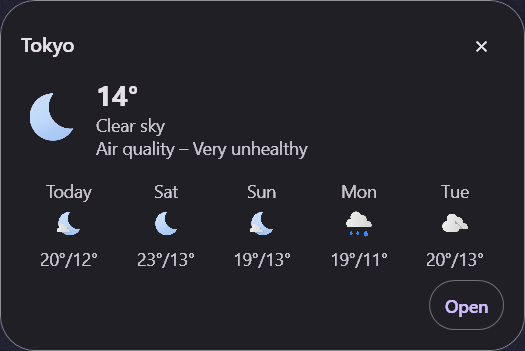
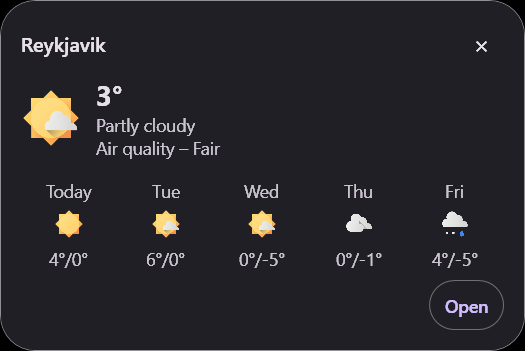
Version 0.3.0: nowcast and footer cards, smoother scrolling and touchpad navigation, Open-Meteo weather models
Adds the precipitation card for the coming hour, the footer with the data sources, Open in another app, Open-Meteo weather models per location, pull to refresh with the mouse, a refresh button and F5, two-finger back and forward, a touchpad scroll speed and forecast column descriptions on hover.

Forecast and detail choices are connected buttons, forecast charts take the weather's colors, detail screens follow the location's light or dark colors, scrolling glides and follows the touchpad, animations follow Windows' animation effects, and switching locations does less work.

Fixes the Nighttime help icon, the header's long lines, screen reader temperatures and detail chart columns cut at their edges. The README shows new screenshots and animations.

diff --git a/README.md b/README.md
@@ -9,7 +9,7 @@
 [![.NET 10](https://img.shields.io/badge/.NET-10-512BD4?logo=dotnet&logoColor=white)](https://dotnet.microsoft.com/)
 [![WPF](https://img.shields.io/badge/UI-WPF-512BD4)](https://learn.microsoft.com/dotnet/desktop/wpf/)
 [![Licence](https://img.shields.io/github/license/Nouni2/Libreccio-Weather)](LICENCE.md)
-[![Release v0.2.2-alpha1](https://img.shields.io/badge/release-v0.2.2--alpha1-red)](https://github.com/Nouni2/Libreccio-Weather/releases/tag/v0.2.2-alpha1)
+[![Release v0.3.0](https://img.shields.io/badge/release-v0.3.0-red)](https://github.com/Nouni2/Libreccio-Weather/releases/tag/v0.3.0)
 
 #### Libreccio Weather is an unofficial Windows port of [Breezy Weather](https://github.com/breezy-weather/breezy-weather), free and open source.
 
@@ -17,19 +17,39 @@
 
 ## Download
 
-Download `0.2.2-alpha1` from its [GitHub release](https://github.com/Nouni2/Libreccio-Weather/releases/tag/v0.2.2-alpha1).
+Download `0.3.0` from its [GitHub release](https://github.com/Nouni2/Libreccio-Weather/releases/tag/v0.3.0).
 
 Libreccio Weather is developed and tested on Windows 11. Solar calculations require an x64 process.
 
 ## Screenshots
 
 <p align="center">
-  <img src="assets/images/main.png" alt="Libreccio Weather main window" width="49%" align="top">
-  <img src="assets/images/second.png" alt="Hourly forecast and weather cards" width="49%" align="top">
+  <img src="assets/images/main.gif" alt="The main screen refreshing, with its cards coming in over the animated weather" width="90%">
 </p>
+
 <p align="center">
-  <img src="assets/images/tray.png" alt="Mistray forecast popup" width="65%">
+  <img src="assets/images/second.png" alt="The hourly forecast and the current condition cards" width="49%">
+  <img src="assets/images/details.png" alt="The Sun and Moon detail page with its altitude chart" width="49%">
 </p>
+
+<details>
+<summary><b>More screenshots and animations</b></summary>
+
+<br>
+
+| Scrolling | Opening a card | Location pane |
+|:---:|:---:|:---:|
+| <img src="assets/images/scroll.gif" alt="The main screen scrolling down through the forecasts and condition cards"> | <img src="assets/images/details.gif" alt="A sun card opening the Sun and Moon detail page"> | <img src="assets/images/pane.gif" alt="The location pane closing and opening beside the main screen"> |
+
+| Tokyo | Cape Town | Phoenix |
+|:---:|:---:|:---:|
+| <img src="assets/images/tokyo.png" alt="The main screen for Tokyo"> | <img src="assets/images/cape-town.png" alt="The main screen for Cape Town"> | <img src="assets/images/phoenix.png" alt="The main screen for Phoenix"> |
+
+| Locations | Settings | Mistray |
+|:---:|:---:|:---:|
+| <img src="assets/images/locations.png" alt="The list of saved locations"> | <img src="assets/images/settings.png" alt="The settings home"> | <img src="assets/images/tray.png" alt="Mistray's daily forecast popup above the tray icon"> |
+
+</details>
 
 ## Features
 
@@ -56,9 +76,9 @@ The main window uses the selected location's meteorological season for its icon,
 |:---:|:---:|:---:|:---:|:---:|
 | <img src="assets/icons/icon.svg" alt="Non-seasonal icon" width="64"> | <img src="assets/icons/spring.svg" alt="Spring icon" width="64"> | <img src="assets/icons/summer.svg" alt="Summer icon" width="64"> | <img src="assets/icons/autumn.svg" alt="Autumn icon" width="64"> | <img src="assets/icons/winter.svg" alt="Winter icon" width="64"> |
 
-## Alpha scope
+## Scope
 
-In `0.2.2-alpha1`, you get Open-Meteo forecasts with light and dark themes. I haven't ported automatic location detection, weather providers other than Open-Meteo, Windows weather notifications or autostart. See the [roadmap](ROADMAP.md) for the remaining features.
+In `0.3.0`, you get Open-Meteo forecasts with light and dark themes. I haven't ported automatic location detection, weather providers other than Open-Meteo, Windows weather notifications or autostart. See the [roadmap](ROADMAP.md) for the remaining features.
 
 The bundled solar DLL requires x64; you cannot use it in an ARM64 process.
 

diff --git a/CHANGELOG.md b/CHANGELOG.md
@@ -1,22 +1,48 @@
 # Changelog
 
-## [Unreleased]
+## [0.3.0] - 2026-11-09
 
 ### Added
 
-- Pull to refresh on the main screen: drag down with the mouse or turn the wheel up at the top of the screen.
+- Pull to refresh on the main screen: drag down with the mouse at the top of the screen.
 - A refresh button on the main screen, and F5 to refresh, in both interfaces.
+- A precipitation card for the coming hour on the main screen.
+- A footer at the end of the main screen with the weather data sources.
+- "Open in another app" in the main screen's menu, which opens the location in the map app Windows chooses.
+- A choice of Open-Meteo weather models for each location.
+- Two-finger touchpad swipes to go back and forward between screens. Over the forecast columns or the detail screens' day tabs, they scroll them sideways.
+- Settings → Appearance → Interface: a touchpad scroll speed, and descriptions of forecast columns when the pointer rests on them.
+- Tests of wind directions given as cardinal points, ported from Breezy Weather.
 
 ### Changed
 
 - The About screen lists Libreccio Weather's contributors instead of Breezy Weather's. Breezy Weather's translators stay credited, since the app's text comes from their translations.
 - The per-location preferences dialog's button reads "Done", since closing it saves.
 - The seasonal app icon is off by default.
-- Switching location or refreshing reuses the main screen's cards instead of building them again.
+- Switching location or refreshing reuses the main screen's cards instead of building them again, and switching location does less work.
+- The forecast cards' chart choice, and the pollutant and temperature choices in the detail screens, are connected buttons with a menu for the choices that do not fit, as in Breezy Weather.
+- Forecast charts take the colors of the current weather, and the columns of today and the hours ahead stand out from the past ones.
+- Detail screens are light or dark like their location's main screen, and change with Windows' app mode and the dark mode setting.
+- In the detail screens, a sideways drag changes the day, the day tabs have no scroll bar and center the selected day, and explanations open as Material 3 tooltips.
+- Mouse wheel and touchpad scrolling glide smoothly, and touchpad scrolling follows the fingers.
+- Animations follow Windows' animation effects setting.
+- Chart threshold labels sit beside the chart, so bars and lines never cover them.
+- The main screen's cards sit on the raised card surface of Breezy Weather's cards.
+- Choosing a search result first shows the location's weather sources, and saving them adds the location, as in Breezy Weather.
+- The search screen fills the window's width.
+- Switching location or refreshing replays the header's fade and temperature count, which starts from the temperature shown for the previous location.
+- The main screen header, the forecast cards' titles, subtitles and icons, and the pull-to-refresh indicator use Breezy Weather's colors; the indicator's arc takes the current weather's color, brighter at night.
+- In a location's weather sources, the message that the location already exists sits under the forecast row.
+- Detail screen dividers follow the screen's light or dark colors, while the Sun & Moon icons and the moon outline keep the app's grey, as in Breezy Weather.
 
 ### Fixed
 
 - Forecast chart labels use Roboto, as in Breezy Weather.
+- The help icon next to "Nighttime" in the detail screens is no longer cut at the bottom.
+- The header's feels-like and temperature range lines end with an ellipsis when too long, instead of wrapping.
+- Screen readers read the header's temperatures with their units in full.
+- Detail chart columns are no longer cut at the edges of the chart.
+- New locations in India no longer get an air quality source, since its air quality would cover other times than the forecast.
 
 ## [0.2.2-alpha1] - 2026-11-06
 

diff --git a/docs/release-packaging.md b/docs/release-packaging.md
@@ -1,6 +1,6 @@
 # Release packaging
 
-`0.2.2-alpha1` is distributed as a standalone Windows x64 executable with the .NET runtime included.
+`0.3.0` is distributed as a standalone Windows x64 executable with the .NET runtime included.
 
 ## Standalone executable
 
@@ -12,7 +12,7 @@ dotnet publish .\Libreccio-Weather.csproj --configuration Release "-p:PublishPro
 
 The profile compresses the bundled assemblies and includes the native libraries, translations and licence documents. It rejects a publish that leaves additional files beside the executable. Trimming and ReadyToRun are disabled.
 
-The release executable is `build/release/v0.2.2-alpha1/Libreccio-Weather-v0.2.2-alpha1-win-x64.exe`. The publish output is `build/publish/v0.2.2-alpha1/win-x64/Libreccio-Weather.exe`. Paths derive from `Version` in `Directory.Build.props`.
+The release executable is `build/release/v0.3.0/Libreccio-Weather-v0.3.0-win-x64.exe`. The publish output is `build/publish/v0.3.0/win-x64/Libreccio-Weather.exe`. Paths derive from `Version` in `Directory.Build.props`.
 
 The download is one executable. On launch, .NET extracts its bundled files into its per-user `%TEMP%\.net` cache. Settings and saved weather remain in `%LOCALAPPDATA%\Libreccio Weather\`. The executable does not keep user data beside itself.
 
@@ -20,6 +20,6 @@ The download is one executable. On launch, .NET extracts its bundled files into 
 
 Copy the standalone executable alone into another directory, launch it, and check fonts, French and English text, forecasts, Mistray and the sun and moon cards. On a clean Windows x64 system, verify that it needs no separate .NET installation.
 
-Attach `Libreccio-Weather-v0.2.2-alpha1-win-x64.exe` to the GitHub prerelease tagged `v0.2.2-alpha1`. Keep the tag's target consistent with the committed release source.
+Attach `Libreccio-Weather-v0.3.0-win-x64.exe` to the GitHub release tagged `v0.3.0`. Keep the tag's target consistent with the committed release source.
 
 Single-file extraction and compression follow [Microsoft's deployment documentation](https://learn.microsoft.com/en-us/dotnet/core/deploying/single-file/overview).
